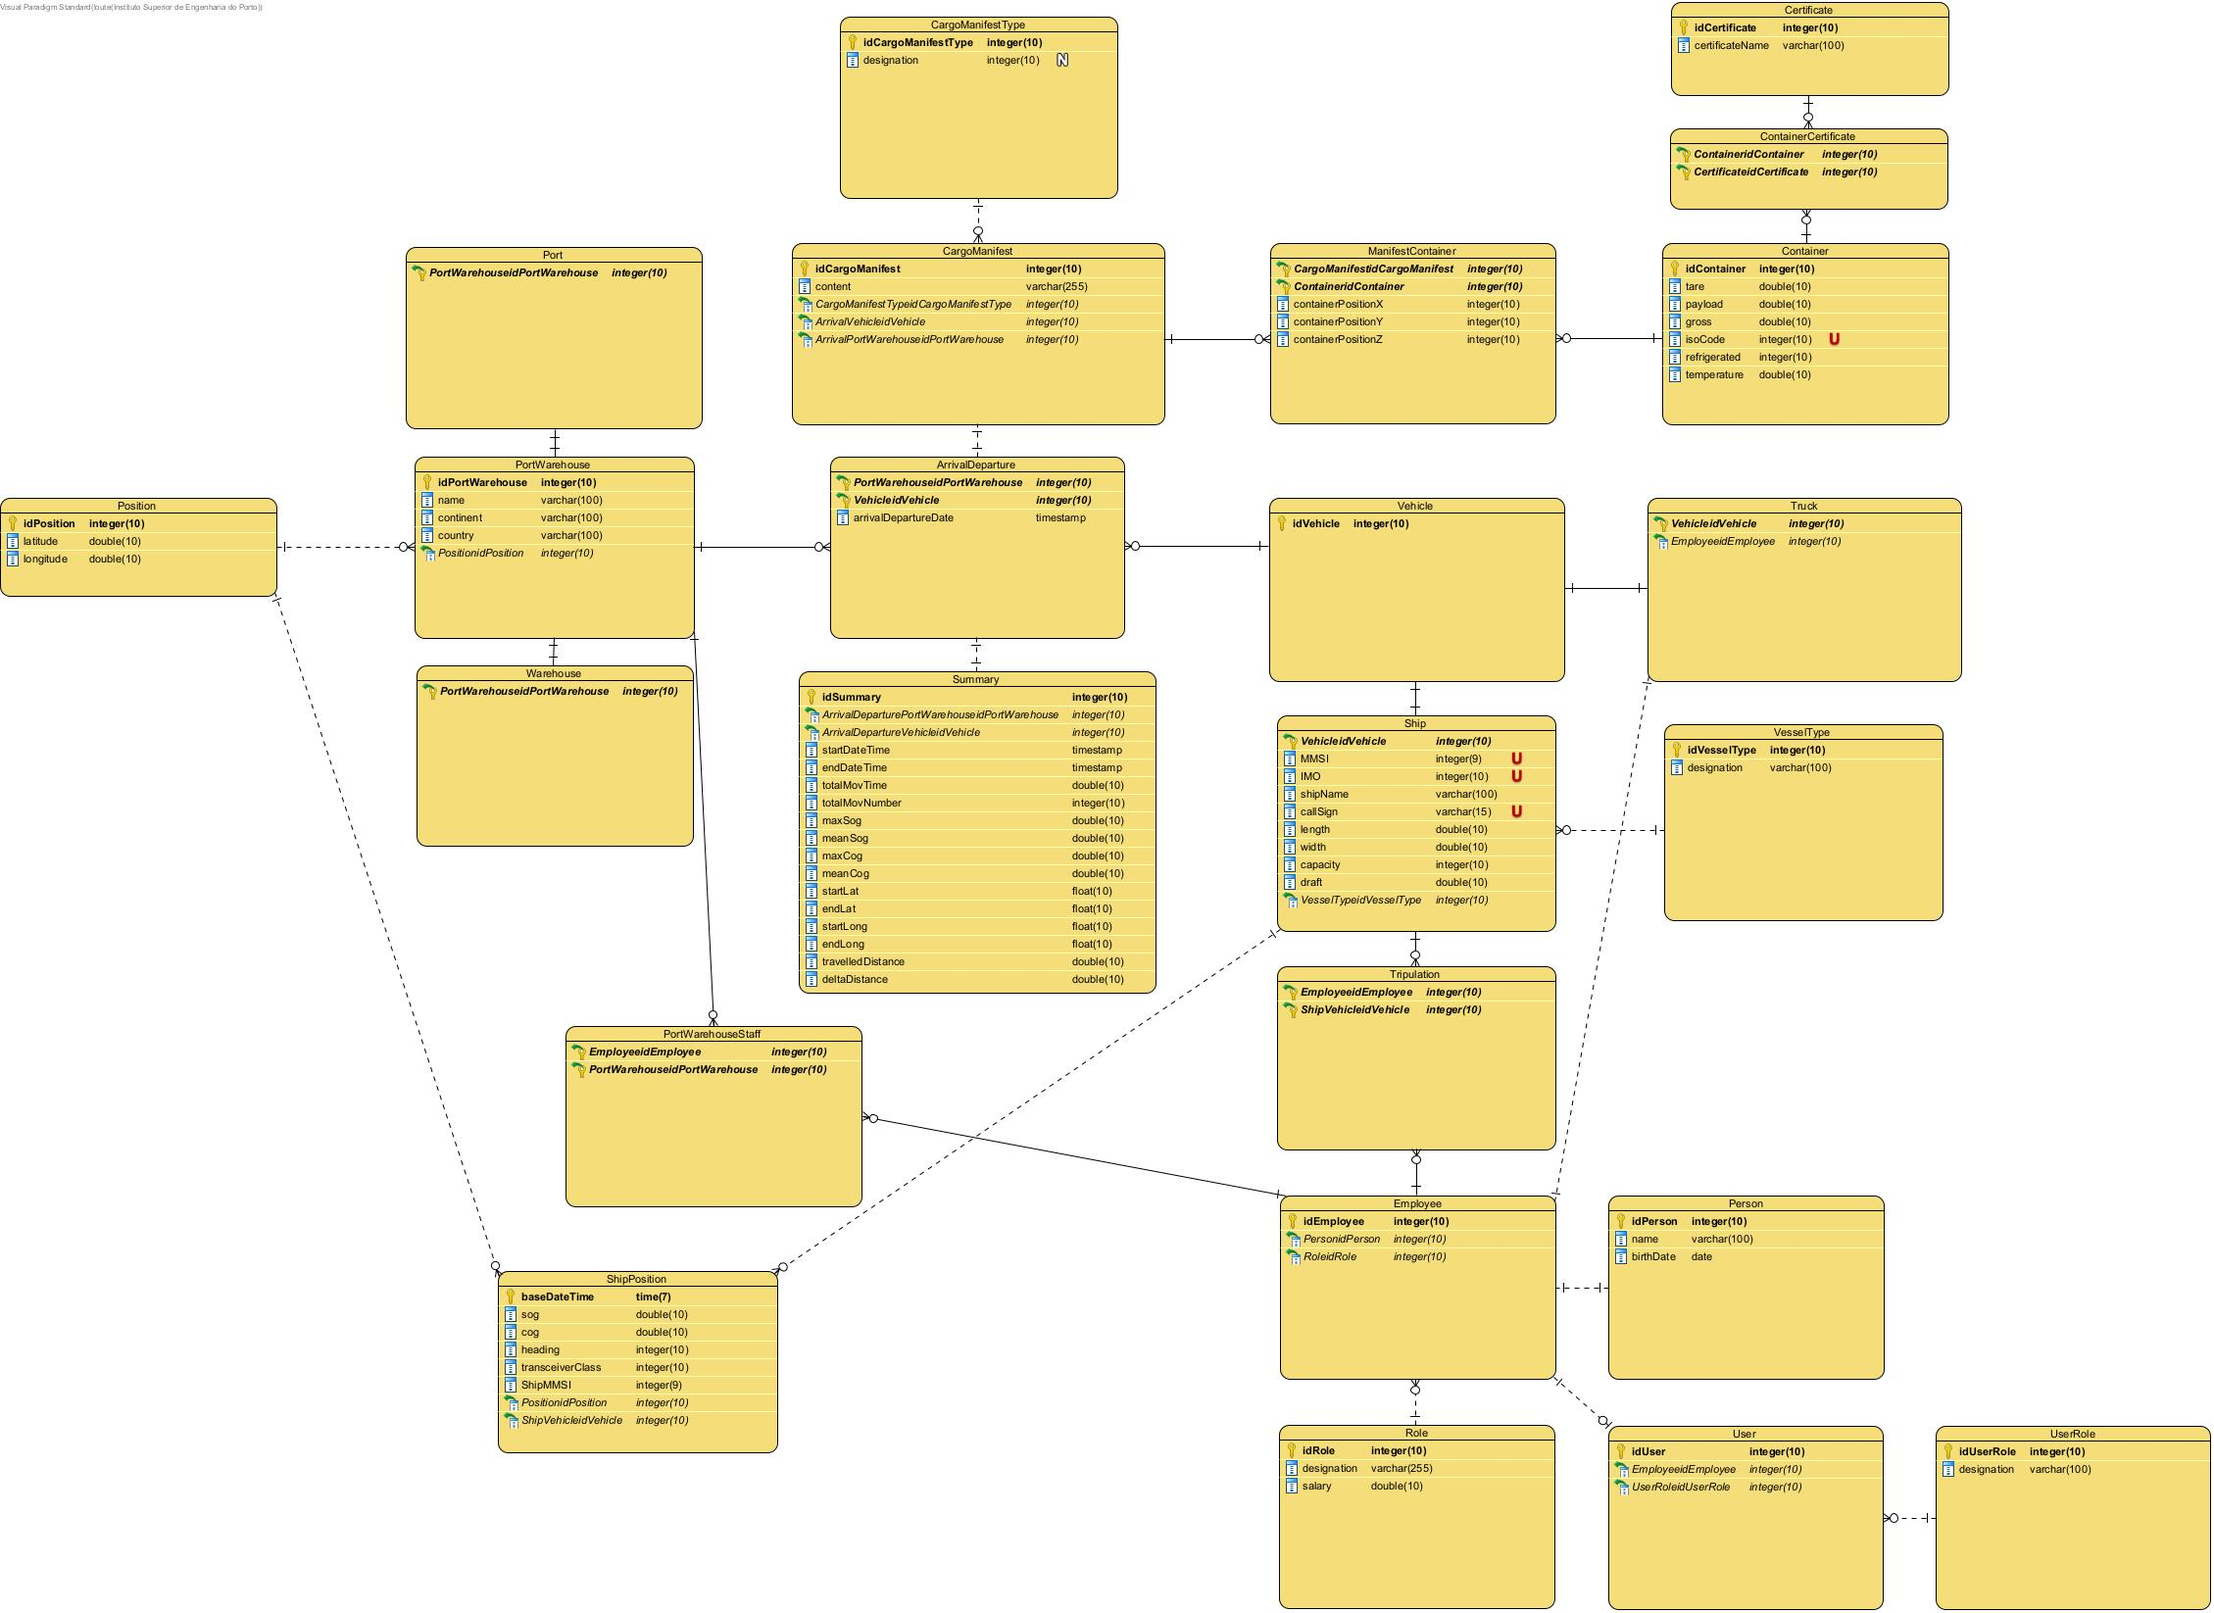
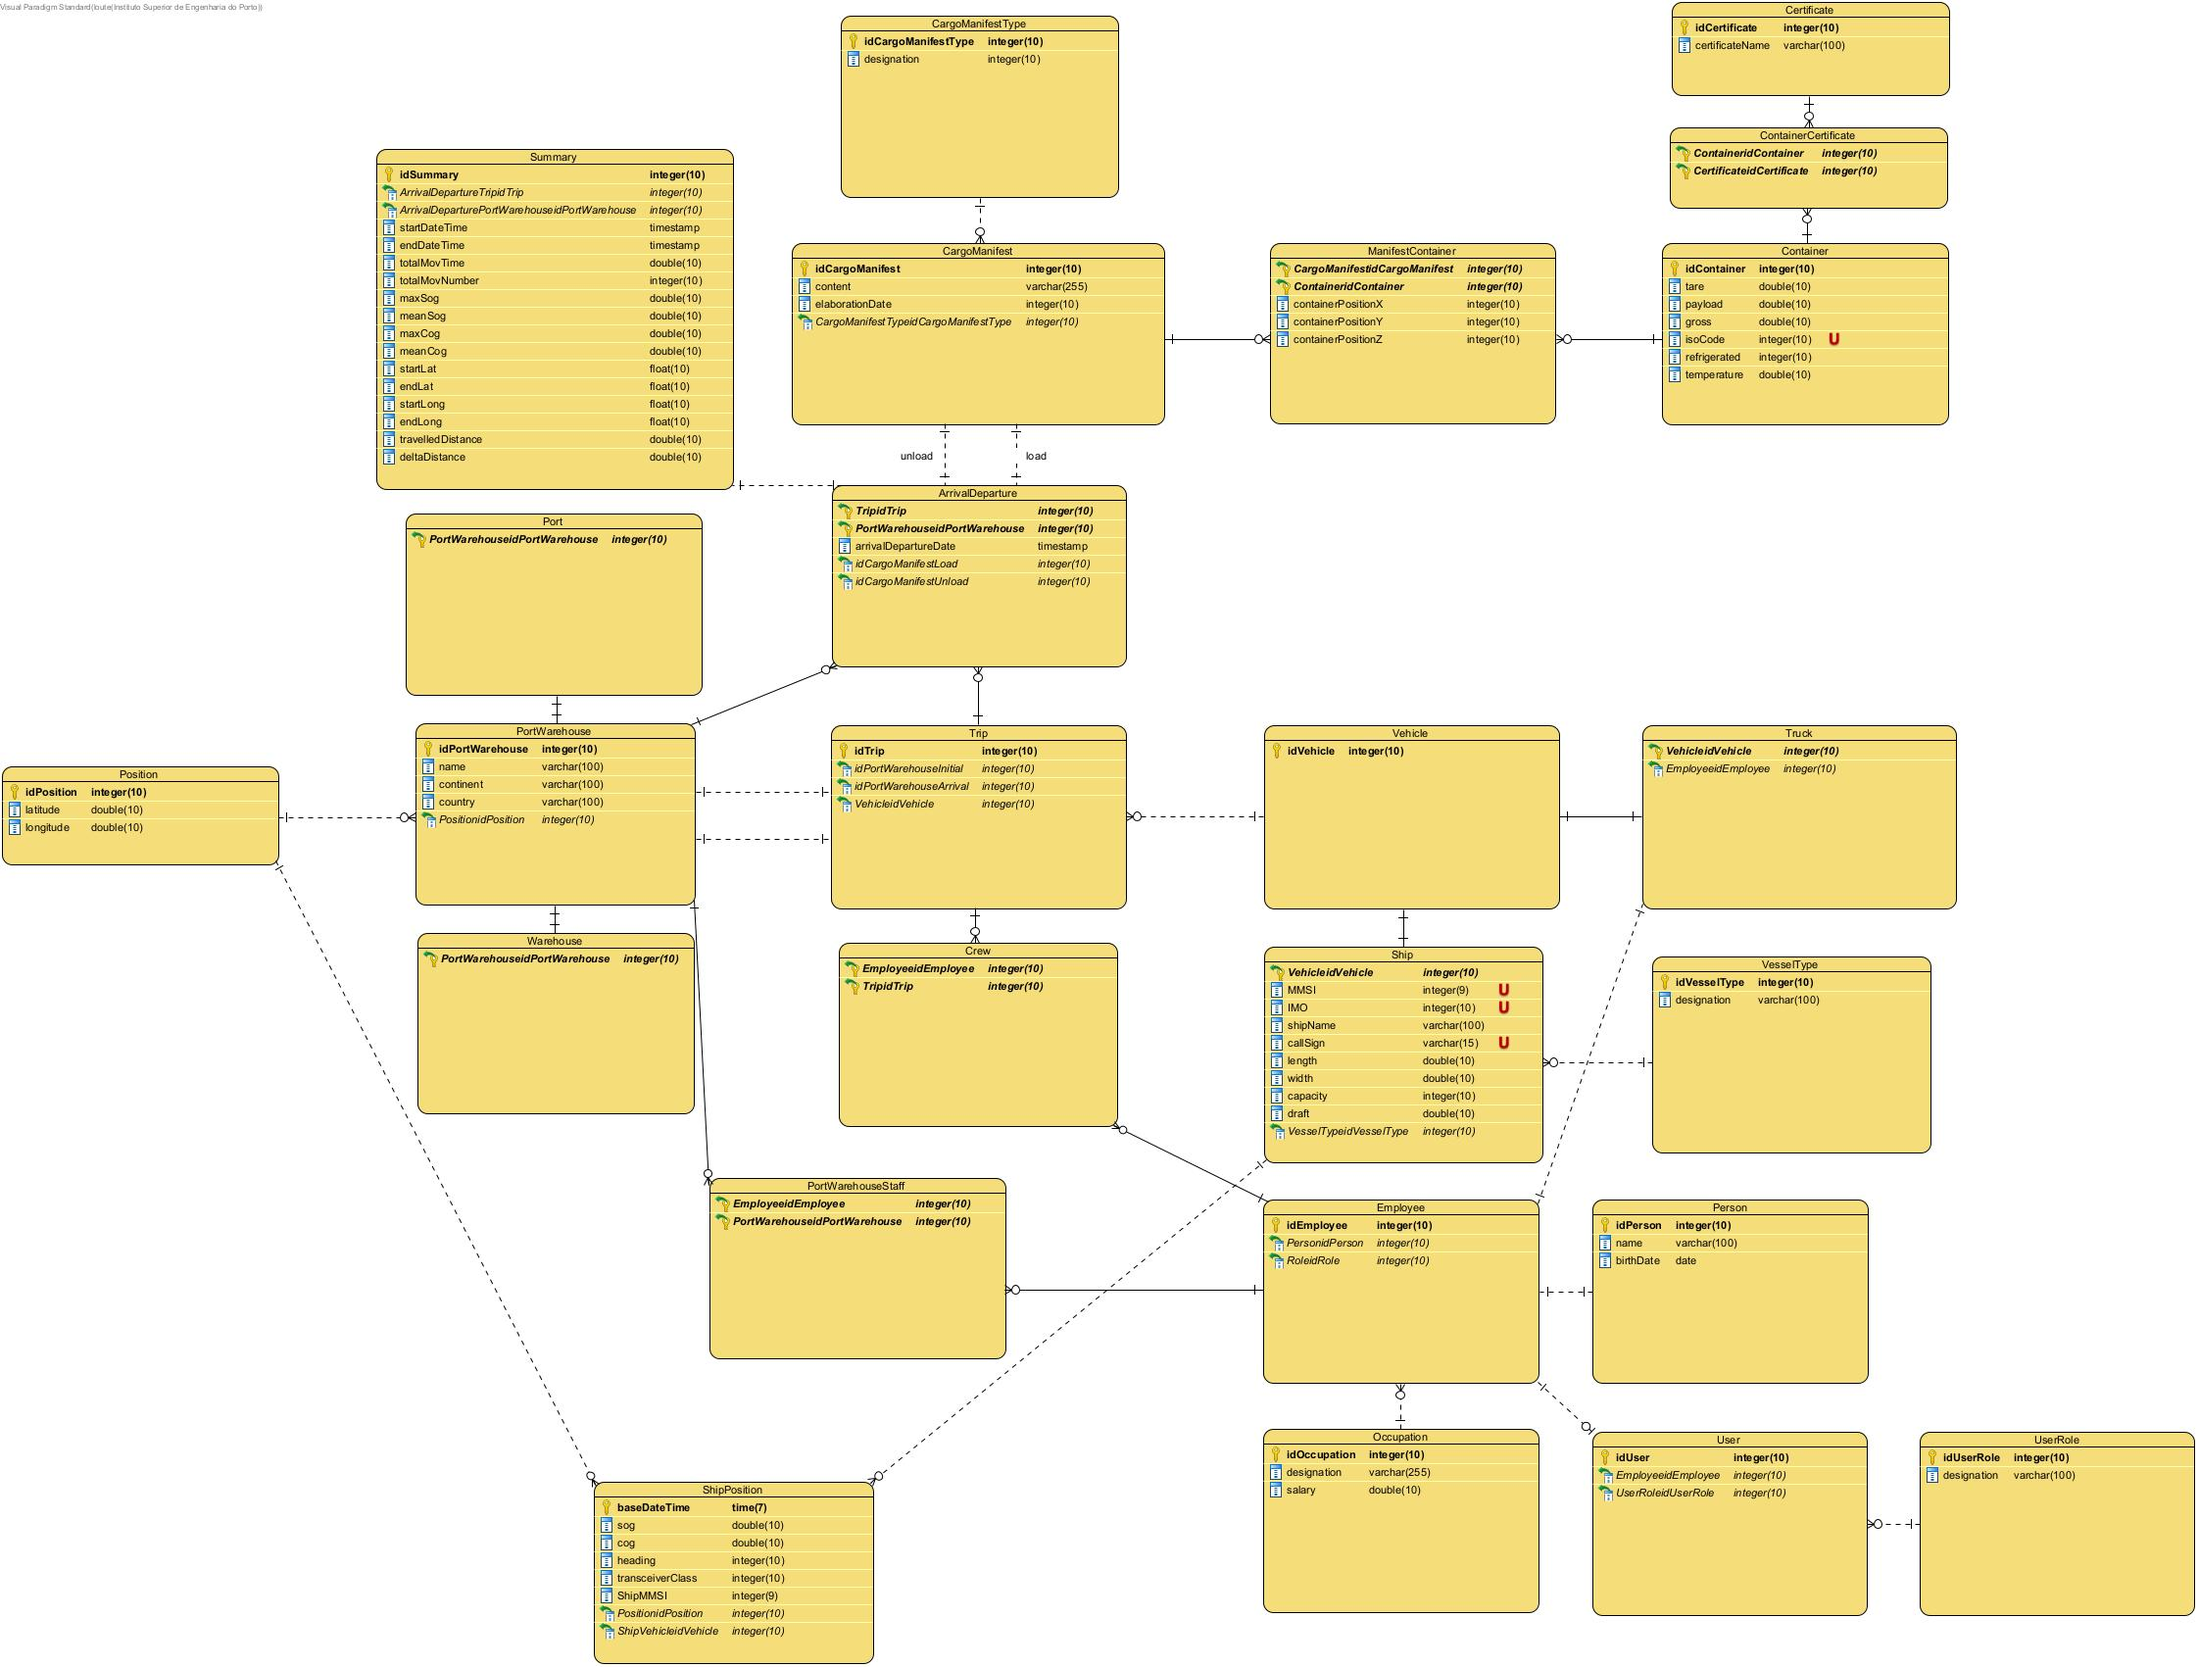
<G0102-14> Updated us108 artifacts

diff --git a/docs/Sprint2/US108/README.md b/docs/Sprint2/US108/README.md
@@ -5,12 +5,13 @@
 The sqlCreateTables.sql creates the following tables:
 
 * Person;
-* Role;
+* Occupation;
 * Employee;
 * Vehicle;
 * VesselType;
 * Ship;
-* Tripulation;
+* Crew;
+* Trips
 * Truck;
 * Container;
 * Certificate;
